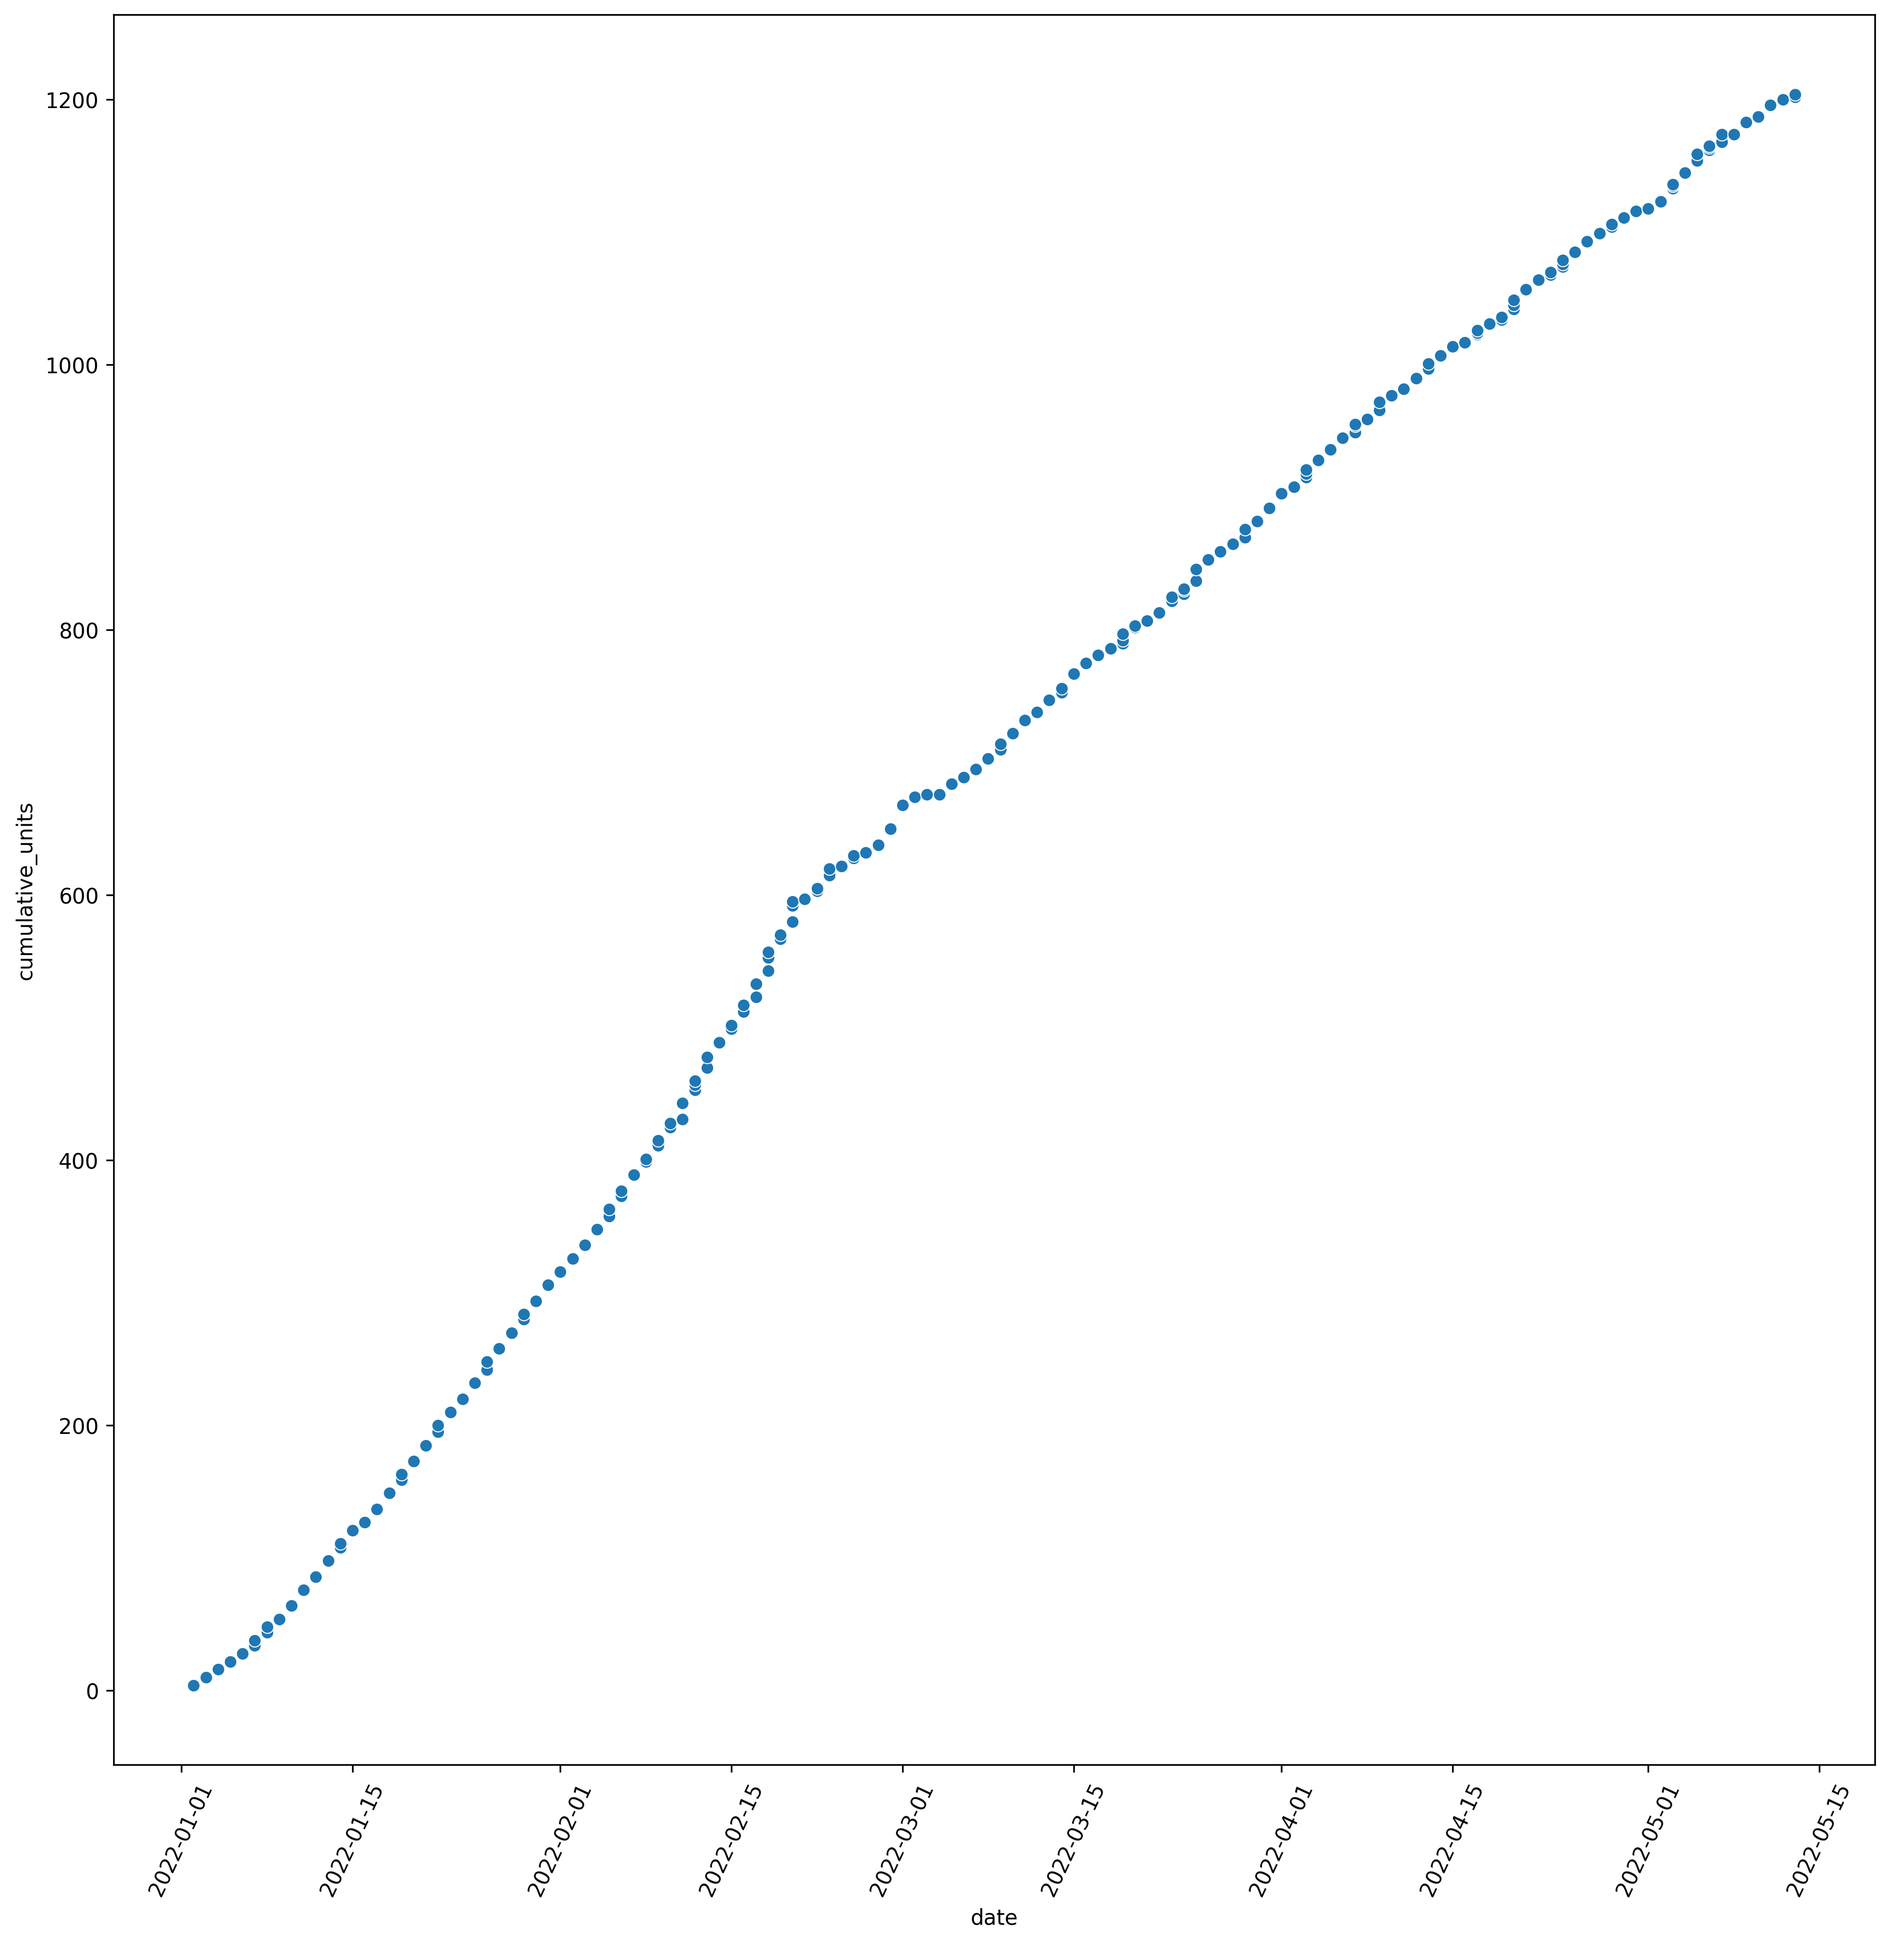
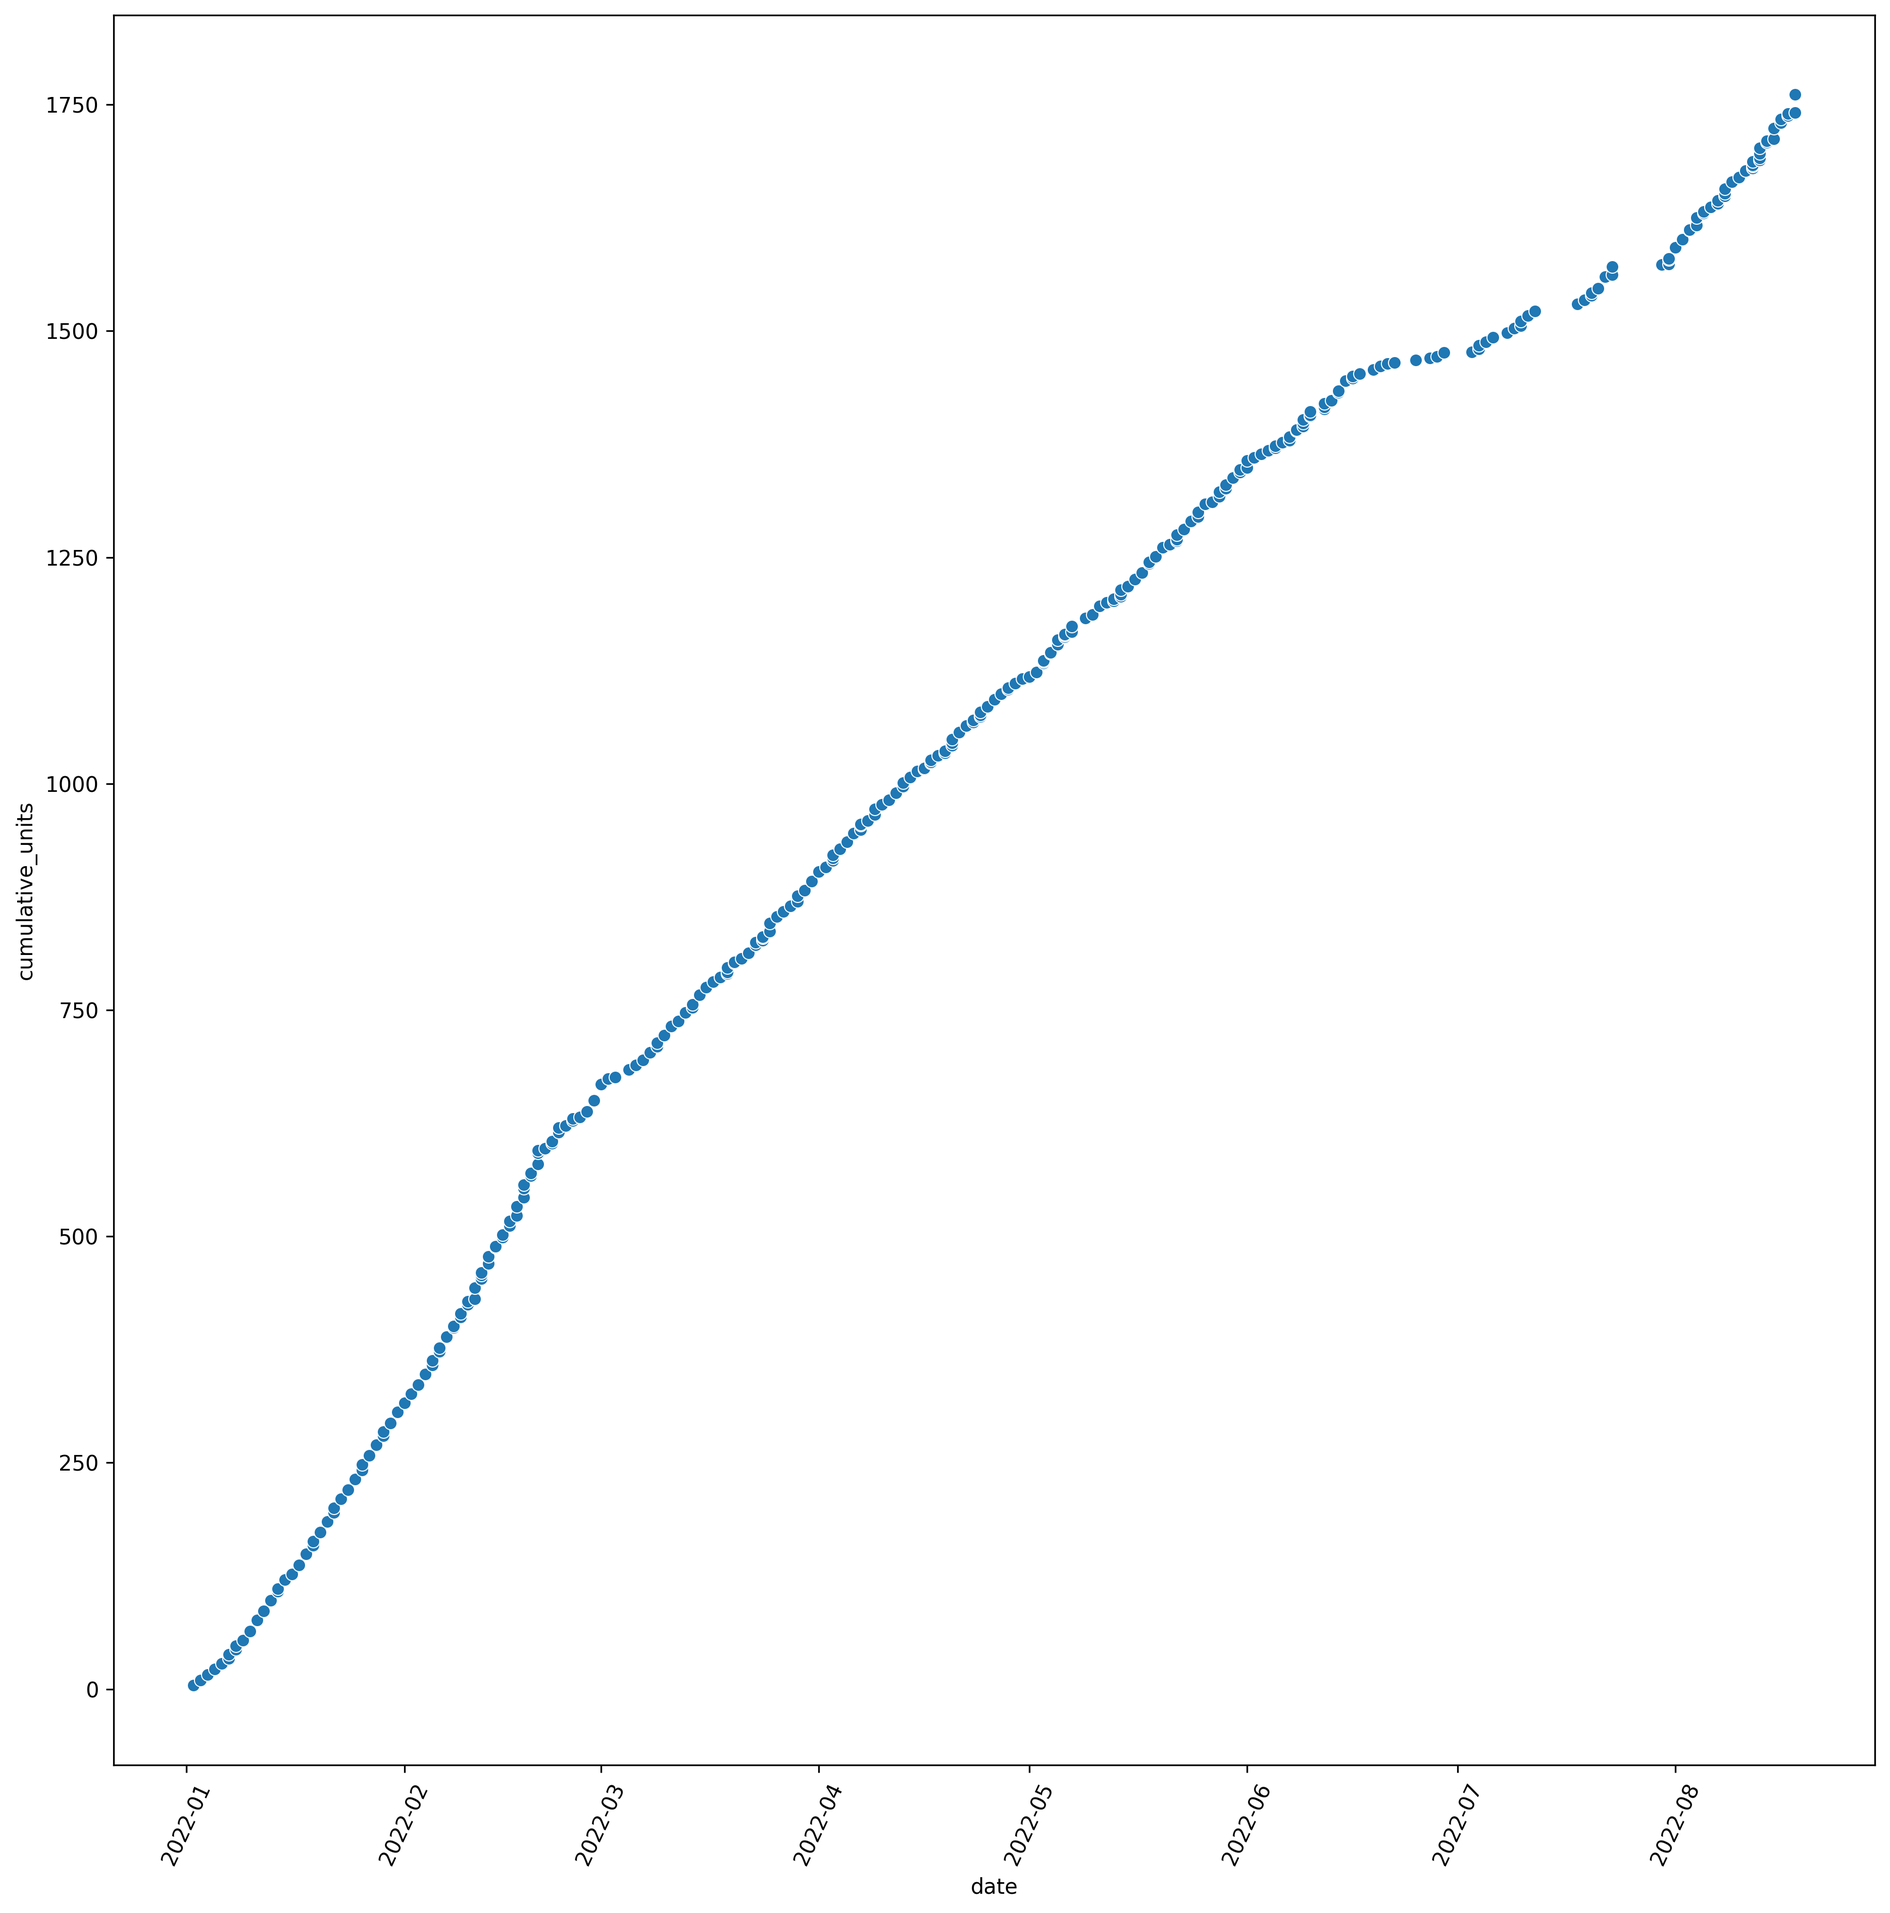
Updated content

diff --git a/README.md b/README.md
@@ -5,4 +5,4 @@ I started studying python on the 2nd of January 2022, since then I recorded all 
 ![graph 1](data/graphs/image_1.png)
 ![graph 2](data/graphs/image_2.png)
 
-Last updated: 2022-05-28
+Last updated: 2022-08-20
